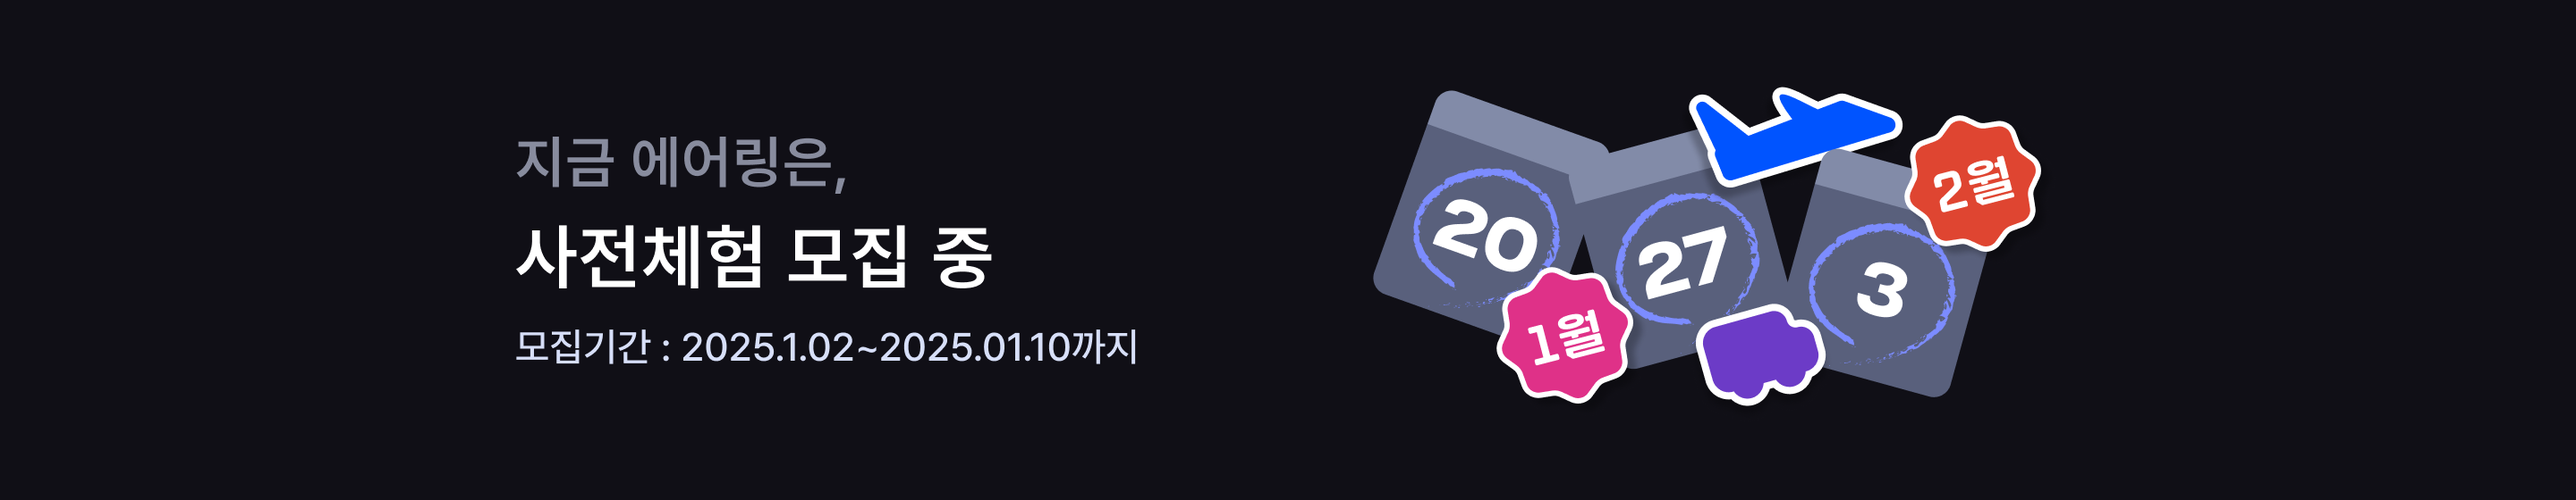
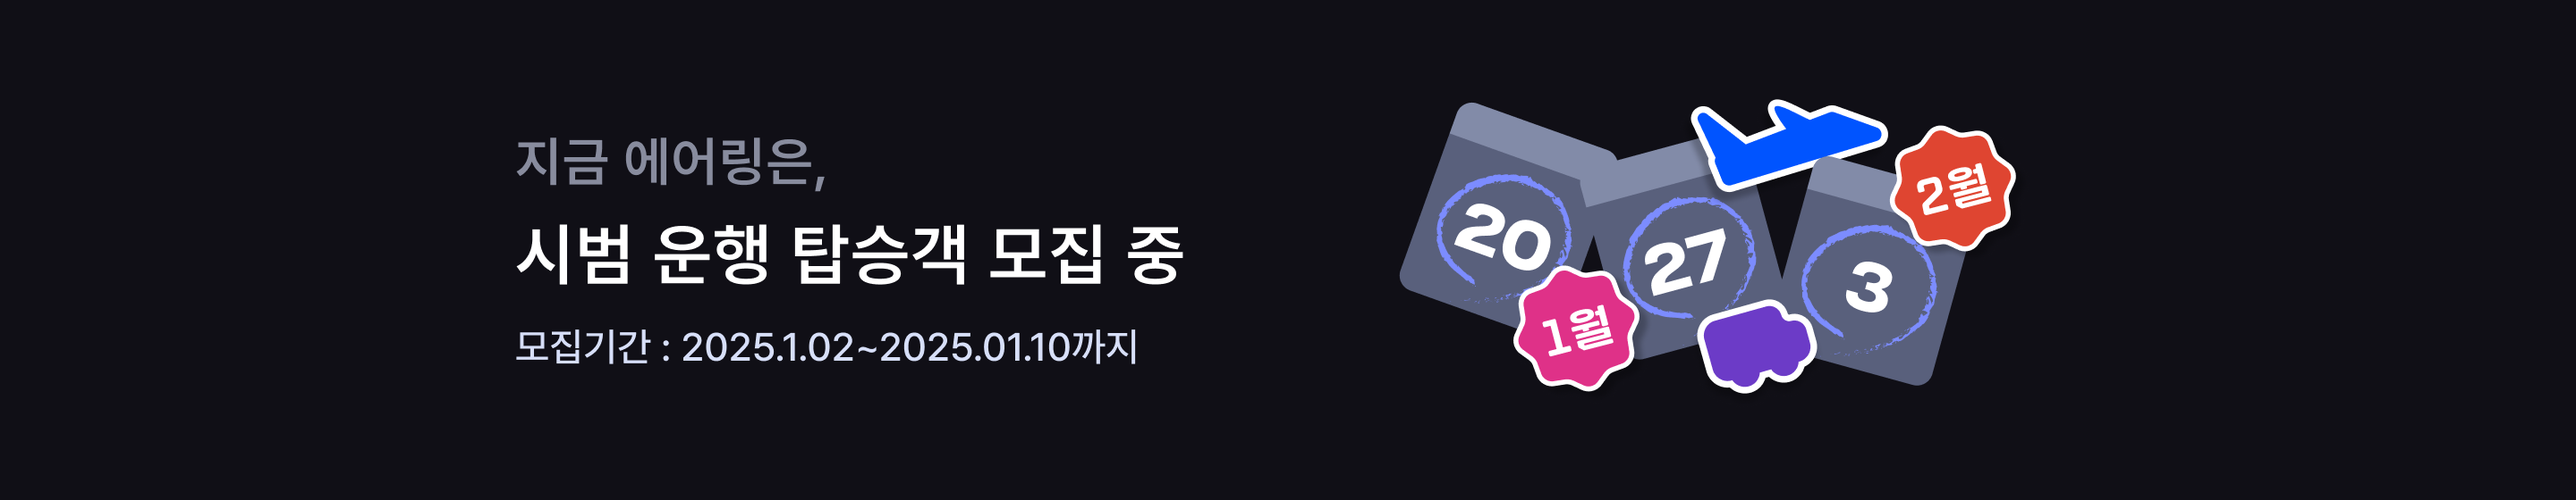
시범운행으로 전면 교체

Changed region(s): [[0.5312, 0.1821, 0.8125, 0.8196], [0.1875, 0.4554, 0.4688, 0.5768], [0.1875, 0.2732, 0.3438, 0.3946]]

diff --git a/index.html b/index.html
@@ -234,7 +234,6 @@
             <div class="button">
                 <a href="javascript:void(0);" onclick="showDriver()">1/31 (금) 자정 마감</a>
             </div>
-        </div>
     </div>
 </div>
       <div class="col-md-12 col-sm-12">
